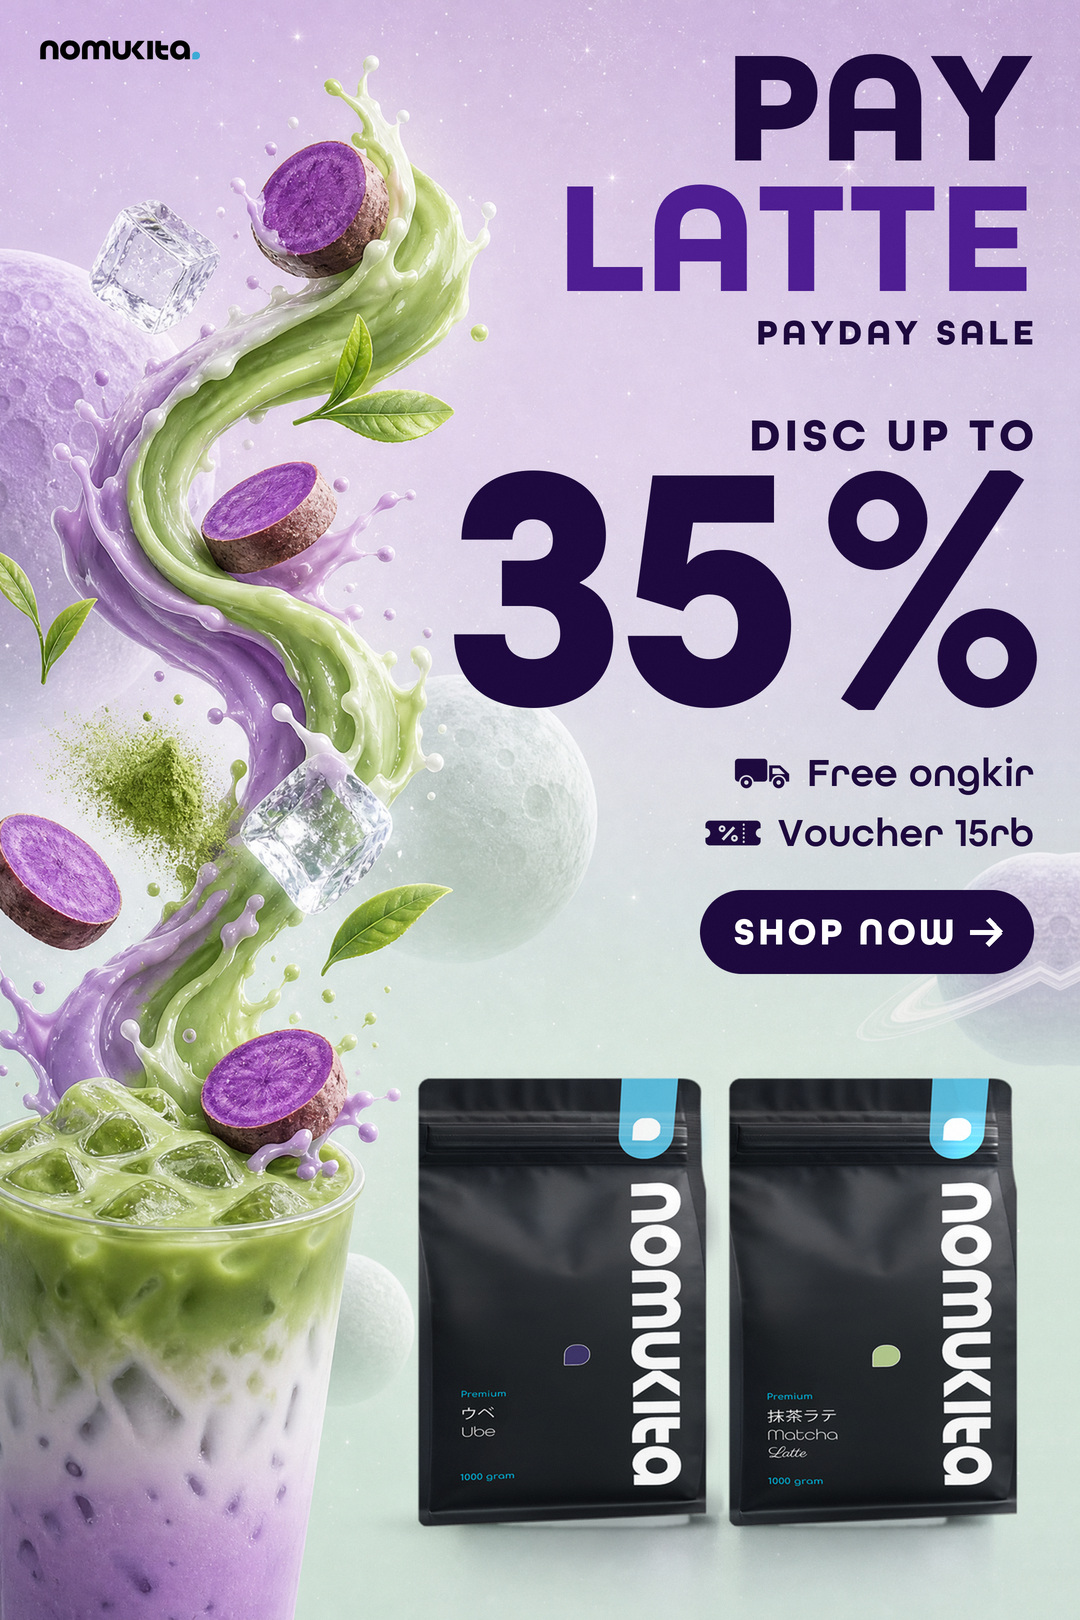
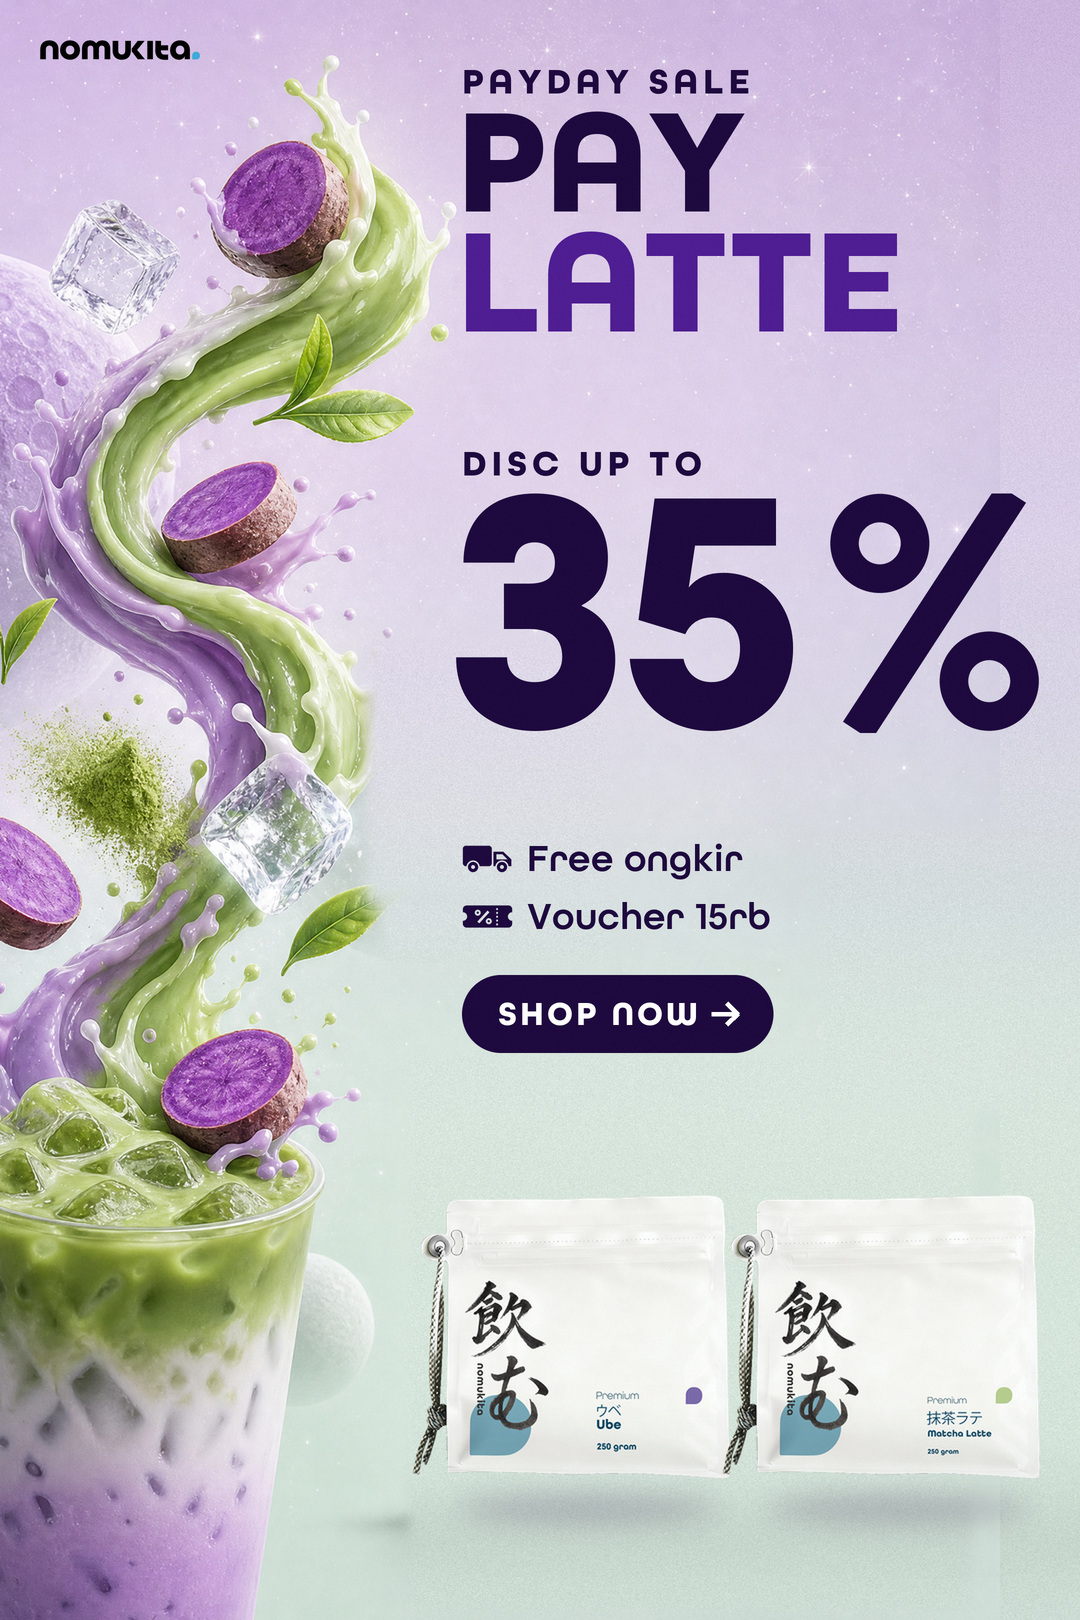
PAY LATTE v4: clean left-aligned typography, real 250 g pouches
Black 1000 g pouches removed from the v3 scene and replaced by the real
front-facing 250 g mockups at one identical size; all type on a single
left axis in three evenly spaced groups with four sizes. v3 archived.

Claude-Session: https://claude.ai/code/session_01Bv3a5UzTxRJwy8L4VxmgVZ

diff --git a/banners/payday-pay-latte/scripts/v4/compose_v4.py b/banners/payday-pay-latte/scripts/v4/compose_v4.py
@@ -1,0 +1,95 @@
+"""PAY LATTE v4: clean typography + real 250 g pouches.
+Type: ONE left-aligned column (x = L.x), three groups separated by equal gaps:
+  [PAYDAY SALE / PAY LATTE]   [DISC UP TO / 35%]   [benefits / SHOP NOW]
+Only four sizes: label 36 (caps, tracked), headline, 35% (digit height 21.94% of width), body 38."""
+import sys, os, json
+import numpy as np, cv2
+from PIL import Image, ImageDraw, ImageFilter
+from ptools import *
+L = json.loads(sys.argv[1]); CW, CH = L["size"]; X = L["x"]
+plate = Image.open(L["bg"]).convert("RGB")
+# ---------- real 250 g pouches ----------
+def pouch(name):
+    p = Image.open(ROOT + f"/assets/nomukita-{name}-250g.png").convert("RGBA"); a = np.asarray(p).astype(np.int16)
+    al = a[..., 3].copy(); al[(al < 250) & (a[..., :3].max(axis=2) < 120)] = 0       # strip the mockup's own shadow
+    a[..., 3] = al; p = Image.fromarray(a.astype(np.uint8), "RGBA"); return p
+BW = L["pouch_w"]; sc = BW / 755.0                                                   # body = x 150..905 of the 1000 px mockup
+sh_layer = np.zeros((CH, CW), np.float32); pouches = []
+for name, bx in zip(("ube", "matcha-latte"), L["pouch_x"]):
+    p = pouch(name); p = p.resize((round(p.width * sc), round(p.height * sc)), Image.LANCZOS)
+    ox = round(bx - 150 * sc); oy = round(L["pouch_base"] - 782 * sc)                 # body bottom = y 782 of the mockup
+    pouches.append((p, ox, oy))
+    # floating shadow: soft ellipse a little below the base + faint ambient under the body
+    cx = bx + BW / 2; by = L["pouch_base"] + L.get("float", 26)
+    m = Image.new("L", (CW, CH), 0); d = ImageDraw.Draw(m)
+    d.ellipse([cx - BW * 0.46, by - 10, cx + BW * 0.46, by + 18], fill=255)
+    sh_layer = np.maximum(sh_layer, cv2.GaussianBlur(np.asarray(m).astype(np.float32) / 255, (0, 0), 14))
+P = np.asarray(plate).astype(np.float32)
+shade = np.array([84, 70, 104], np.float32)
+P = P * (1 - sh_layer[..., None] * L.get("sh_op", 0.30)) + shade * sh_layer[..., None] * L.get("sh_op", 0.30)
+cv = Image.fromarray(np.clip(P, 0, 255).astype(np.uint8)).convert("RGBA")
+for p, ox, oy in pouches:
+    a = np.asarray(p).astype(np.float32)
+    # integrate: a whisper of the sky colour on the white film, darker toward the bottom (ambient occlusion)
+    sky = np.asarray(plate.crop((ox, oy, ox + p.width, oy + p.height)).resize((1, 1), Image.BOX)).reshape(3).astype(np.float32)
+    ys = np.linspace(0, 1, p.height)[:, None, None]
+    a[..., :3] = a[..., :3] * (0.95 + 0.05 * sky / 255) * (1 - 0.06 * np.clip((ys - 0.7) / 0.3, 0, 1))
+    cv.alpha_composite(Image.fromarray(np.clip(a, 0, 255).astype(np.uint8), "RGBA"), (ox, oy))
+cv = cv.resize((CW * K, CH * K), Image.LANCZOS)
+boxes = {}
+def tw(s, fnt, tr=0): return sum(fnt.getlength(c) for c in s) / K + tr * (len(s) - 1)
+def put(key, s, fnt, y, tr=0, fill=INK, x=X):
+    text(cv, x, y, s, fnt, tr, fill); w = tw(s, fnt, tr); boxes[key] = (x, y, x + w, y + cap(fnt)); return y + cap(fnt)
+# logo (top-left, outside the column)
+lg = logo_rgba(ROOT + "/assets/logo01.jpg"); lw = L.get("logo_w", 160) * K
+lg = lg.resize((int(lw), int(lg.height * lw / lg.width)), Image.LANCZOS); cv.alpha_composite(lg, (int(40 * K), int(L.get("logo_y", 40) * K)))
+fl = f(BOLD, L.get("label", 36)); TR = L.get("label_tr", 5)
+# group 1
+y = put("PAYDAY SALE", "PAYDAY SALE", fl, L["y1"], TR)
+fh = f(BOLD, L["head"]); y += L.get("g_in", 24)
+if L.get("stack"):
+    y = put("PAY", "PAY", fh, y - 4, 0, INK, X - 6) + L.get("lead", 22); y = put("LATTE", "LATTE", fh, y, 0, UBE, X - 6)
+else:
+    wp = tw("PAY ", fh); put("PAY", "PAY", fh, y, 0, INK, X - 6); y = put("LATTE", "LATTE", fh, y, 0, UBE, X - 6 + wp)
+g1 = y
+# group 2
+y = put("DISC UP TO", "DISC UP TO", fl, L["y2"], TR) + L.get("g_in", 24) - 6
+pct = pct_vec("35", 0.2194 * CW * 0.983, INK); cv.alpha_composite(pct, (int((X - 6) * K), int(y * K)))
+boxes["35%"] = (X - 6, y, X - 6 + pct.width / K, y + pct.height / K); y += pct.height / K
+# group 3
+fo = f(DEMI, L.get("body", 38)); ih = L.get("icon_h", 34); y3 = L["y3"]
+if L.get("inline"):
+    x = X; items = [("truck", "Free ongkir"), ("ticket", "Voucher 15rb")]
+    for i, (kind, s) in enumerate(items):
+        ic = icon(kind, ih, INK); cv.alpha_composite(ic, (int(x * K), int((y3 + cap(fo) / 2 - ih / 2) * K)))
+        wt = tw(s, fo, 0.3); text(cv, x + ic.width / K + 14, y3, s, fo, 0.3, INK); boxes[f"b{i}"] = (x, y3 - 4, x + ic.width / K + 14 + wt, y3 + cap(fo) + 4)
+        x = x + ic.width / K + 14 + wt + L.get("sep", 36)
+    yb = y3 + cap(fo)
+else:
+    for i, (kind, s) in enumerate([("truck", "Free ongkir"), ("ticket", "Voucher 15rb")]):
+        yy = y3 + i * L.get("lead_b", 56); ic = icon(kind, ih, INK)
+        cv.alpha_composite(ic, (int(X * K), int((yy + cap(fo) / 2 - ih / 2) * K)))
+        wt = tw(s, fo, 0.3); text(cv, X + ic.width / K + 14, yy, s, fo, 0.3, INK); boxes[f"b{i}"] = (X, yy - 4, X + ic.width / K + 14 + wt, yy + cap(fo) + 4)
+    yb = yy + cap(fo)
+fc = f(BOLD, L.get("cta_size", 34)); h = L.get("cta_h", 78); aw = 26; t_w = tw("SHOP NOW", fc, 3); w = t_w + 2 * 36 + aw + 14
+cy0 = yb + L.get("g_cta", 40); cx0 = X
+pl = Image.new("RGBA", (int(w * K * 3), int(h * K * 3)), (0, 0, 0, 0))
+ImageDraw.Draw(pl).rounded_rectangle([0, 0, pl.width - 1, pl.height - 1], radius=pl.height / 2, fill=INK + (255,))
+cv.alpha_composite(pl.resize((int(w * K), int(h * K)), Image.LANCZOS), (int(cx0 * K), int(cy0 * K)))
+tx = cx0 + 36; text(cv, tx, cy0 + (h - cap(fc)) / 2, "SHOP NOW", fc, 3, WHITE)
+d = ImageDraw.Draw(cv); ax = (tx + t_w + 14) * K; ay = (cy0 + h / 2) * K; Lr = aw * K; th = int(4.5 * K)
+d.line([(ax, ay), (ax + Lr, ay)], fill=WHITE, width=th)
+d.line([(ax + Lr * 0.58, ay - Lr * 0.42), (ax + Lr + 1, ay + 1)], fill=WHITE, width=th)
+d.line([(ax + Lr * 0.58, ay + Lr * 0.42), (ax + Lr + 1, ay - 1)], fill=WHITE, width=th)
+boxes["cta"] = (cx0, cy0, cx0 + w, cy0 + h)
+for k, (p, ox, oy) in zip(("pouch_ube", "pouch_matcha"), pouches): boxes[k] = (ox, oy, ox + p.width, oy + p.height)
+print({k: tuple(round(v) for v in b) for k, b in boxes.items()})
+print(f"group ends: g1 {g1:.0f} | g2 {boxes['35%'][3]:.0f} | cta {cy0 + h:.0f} | pouch top {min(b[1] for k, b in boxes.items() if k.startswith('pouch')):.0f}")
+out = cv.convert("RGB").resize((CW, CH), Image.LANCZOS)
+a = np.asarray(out).astype(np.float32) + np.random.default_rng(11).normal(0, 0.8, (CH, CW, 1))
+out = Image.fromarray(np.clip(a, 0, 255).astype(np.uint8))
+for q in (94, 92, 90):
+    out.save(L["out"], quality=q, optimize=True, progressive=True, subsampling=0)
+    if os.path.getsize(L["out"]) <= 2_000_000: break
+json.dump({k: [float(v) for v in b] for k, b in boxes.items()}, open(L["out"] + ".boxes.json", "w"))
+print("saved", L["out"], out.size, os.path.getsize(L["out"]), "bytes")

diff --git a/banners/payday-pay-latte/scripts/v4/ptools.py b/banners/payday-pay-latte/scripts/v4/ptools.py
@@ -1,0 +1,64 @@
+"""Shared drawing helpers: tracked text, vector percent block, flat vector icons."""
+import sys, os, json, math
+import numpy as np
+from PIL import Image, ImageDraw, ImageFont
+ROOT = "/tmp/claude-0/-home-user-Dom-Manipulation/cc5b59a6-6b87-5897-882c-ef3d3b14e312/scratchpad"
+sys.path.insert(0, "/home/user/Dom-Manipulation/banners/10.10-ube")
+from compose import logo_rgba
+FD = ROOT + "/assets/fonts/All Round Gothic/"
+BOLD, DEMI = FD + "Fontspring-DEMO-allroundgothic-bold.otf", FD + "Fontspring-DEMO-allroundgothic-demi.otf"
+K = 2
+INK = (30, 10, 62); UBE = (78, 30, 146); WHITE = (255, 255, 255)
+
+def f(path, size): return ImageFont.truetype(path, int(round(size * K)))
+def cap(fnt): b = fnt.getbbox("H"); return (b[3] - b[1]) / K
+def text(cv, x, y, s, fnt, tr=0, fill=INK):
+    d = ImageDraw.Draw(cv); X = x * K; top = fnt.getbbox("H")[1]
+    for c in s:
+        d.text((X, y * K - top), c, font=fnt, fill=fill); X += fnt.getlength(c) + tr * K
+    return (X - tr * K) / K - x
+
+def pct_vec(digits, digit_h, color):
+    """Digits from the Bold font + a vector % (locked in the DEMO font), figure height = digit_h px."""
+    fb = ImageFont.truetype(BOLD, 400); b5 = fb.getbbox("5"); size = 400 * digit_h * K / (b5[3] - b5[1])
+    fb = ImageFont.truetype(BOLD, int(round(size))); bb = [fb.getbbox(c) for c in digits]
+    top = min(b[1] for b in bb); H = max(b[3] for b in bb) - top
+    t = 0.135 * size; r = 0.142 * size; ring = 0.082 * size; wp = 0.60 * size; gap = 0.075 * size
+    wd = sum(fb.getlength(c) for c in digits) - 0.02 * size * (len(digits) - 1)
+    Wt = int(wd + gap + wp + 8); ss = 3
+    lay = Image.new("RGBA", (Wt, int(H + 8)), (0, 0, 0, 0)); d = ImageDraw.Draw(lay); x = 0
+    for c in digits:
+        d.text((x, -top), c, font=fb, fill=color + (255,)); x += fb.getlength(c) - 0.02 * size
+    m = Image.new("L", (int((wp + 4) * ss), int((H + 4) * ss)), 0); md = ImageDraw.Draw(m)
+    Rr = r * ss; RI = (r - ring) * ss; c1 = (Rr + 2, Rr + 2); c2 = (wp * ss - Rr - 2, H * ss - Rr - 2)
+    for c0 in (c1, c2):
+        md.ellipse([c0[0] - Rr, c0[1] - Rr, c0[0] + Rr, c0[1] + Rr], fill=255); md.ellipse([c0[0] - RI, c0[1] - RI, c0[0] + RI, c0[1] + RI], fill=0)
+    q1 = (wp * ss - r * 0.55 * ss, 0); q2 = (r * 0.55 * ss, H * ss); dx, dy = q2[0] - q1[0], q2[1] - q1[1]; Ln = math.hypot(dx, dy)
+    nx, ny = -dy / Ln, dx / Ln; th = t * 0.72 / 2 * ss
+    md.polygon([(q1[0] + nx * th, q1[1] + ny * th), (q1[0] - nx * th, q1[1] - ny * th), (q2[0] - nx * th, q2[1] - ny * th), (q2[0] + nx * th, q2[1] + ny * th)], fill=255)
+    m = m.resize((int(wp + 4), int(H + 4)), Image.LANCZOS)
+    col = Image.new("RGBA", m.size, color + (255,)); col.putalpha(m); lay.alpha_composite(col, (int(wd + gap), 0))
+    return lay.crop(lay.getbbox())
+
+def icon(kind, h, color):
+    """Flat vector icons drawn on a 120x80 grid: delivery truck / voucher ticket."""
+    ss = 8; W0, H0 = 120, 80
+    m = Image.new("L", (W0 * ss, H0 * ss), 0); d = ImageDraw.Draw(m)
+    def R(box, rad, fill=255): d.rounded_rectangle([v * ss for v in box], radius=rad * ss, fill=fill)
+    def C(cx, cy, r, fill=255): d.ellipse([(cx - r) * ss, (cy - r) * ss, (cx + r) * ss, (cy + r) * ss], fill=fill)
+    if kind == "truck":
+        R((2, 10, 70, 58), 7)                                           # cargo box
+        d.polygon([(v[0] * ss, v[1] * ss) for v in [(74, 24), (97, 24), (116, 42), (116, 58), (74, 58)]], fill=255)   # cab
+        R((74, 24, 100, 58), 5); R((96, 40, 116, 58), 5)
+        d.polygon([(v[0] * ss, v[1] * ss) for v in [(81, 30), (95, 30), (107, 42), (81, 42)]], fill=0)                # window
+        for cx in (26, 94):
+            C(cx, 60, 15.5, 0); C(cx, 60, 12); C(cx, 60, 4.6, 0)        # wheels with a gap ring
+    else:
+        R((2, 14, 118, 66), 9)                                          # ticket body
+        C(2, 40, 10, 0); C(118, 40, 10, 0)                              # side notches
+        for y in range(20, 64, 9): R((80.5, y, 84.5, y + 5), 2, 0)      # perforation
+        d.polygon([(v[0] * ss, v[1] * ss) for v in [(36, 52), (60, 26), (64.5, 30), (40.5, 56)]], fill=0)             # small % mark
+        C(37, 31, 7, 0); C(37, 31, 2.6); C(63, 51, 7, 0); C(63, 51, 2.6)
+    w = round(h * K * W0 / H0); m = m.resize((w, int(h * K)), Image.LANCZOS)
+    lay = Image.new("RGBA", m.size, color + (255,)); lay.putalpha(m); return lay
+

diff --git a/banners/payday-pay-latte/scripts/v4/plate.py b/banners/payday-pay-latte/scripts/v4/plate.py
@@ -1,0 +1,54 @@
+"""Clean plate: the AI scene with the black 1000 g pouches (and their contact shadow) removed.
+Usage: plate.py src out size shift_x shift_y"""
+import sys, numpy as np, cv2
+from PIL import Image
+src, out, S, sx, sy = sys.argv[1], sys.argv[2], tuple(map(int, sys.argv[3].split('x'))), int(sys.argv[4]), int(sys.argv[5])
+ERASE = [tuple(map(int, r.split(','))) for r in sys.argv[6:]]   # extra rectangles (x0,y0,x1,y1, pre-shift coords) filled with sky
+im = Image.open(src).convert('RGB').resize((S[0], round(S[0] * Image.open(src).height / Image.open(src).width)), Image.LANCZOS)
+A = np.asarray(im).astype(np.float32); H, W, _ = A.shape
+lum = A.mean(axis=2)
+dark = ((lum < 75) & (np.arange(H)[:, None] > H * 0.45)).astype(np.uint8)
+n, lab, st, _ = cv2.connectedComponentsWithStats(cv2.morphologyEx(dark, cv2.MORPH_CLOSE, np.ones((7, 7), np.uint8)))
+blobs = sorted(range(1, n), key=lambda i: -st[i, cv2.CC_STAT_AREA])[:2]
+xs0 = min(st[i, 0] for i in blobs) - 16; xs1 = max(st[i, 0] + st[i, 2] for i in blobs) + 16
+ys0 = min(st[i, 1] for i in blobs) - 24; ys1 = min(H, max(st[i, 1] + st[i, 3] for i in blobs) + int(0.2 * max(st[i, 3] for i in blobs)))
+xs1 = min(xs1, W)
+print("box", xs0, ys0, xs1, ys1)
+# smooth sky model inside the box: per row, linear blend between the median colour just left and just right of it
+Lc = np.median(A[:, max(0, xs0 - 40):xs0 - 6], axis=1); Rc = np.median(A[:, xs1 + 6:min(W, xs1 + 40)], axis=1) if xs1 + 46 < W else Lc
+Lc = cv2.GaussianBlur(Lc[None], (0, 0), sigmaX=0.1, sigmaY=25)[0] if False else cv2.GaussianBlur(Lc[:, None], (0, 0), sigmaX=0.1, sigmaY=25)[:, 0]
+Rc = cv2.GaussianBlur(Rc[:, None], (0, 0), sigmaX=0.1, sigmaY=25)[:, 0]
+t = np.clip((np.arange(W) - xs0) / max(1, xs1 - xs0), 0, 1)[None, :, None]
+model = Lc[:, None, :] * (1 - t) + Rc[:, None, :] * t
+grain = A - cv2.GaussianBlur(A, (0, 0), 2); gstd = float(grain[:200].std())
+fill = model + np.random.default_rng(7).normal(0, gstd * 0.9, A.shape[:2])[..., None]
+m = np.zeros((H, W), np.float32); m[ys0:ys1, xs0:xs1] = 1
+mm = cv2.GaussianBlur(m, (0, 0), 6)[..., None]
+P = A * (1 - mm) + fill * mm
+def sky_rect(P, x0, y0, x1, y1, c0=None, c1=None):
+    x0, x1 = max(0, x0), min(W, x1)
+    if c0 is not None:                      # colour per row taken from a clean column band c0..c1
+        col = cv2.GaussianBlur(np.median(P[:, c0:c1], axis=1)[:, None], (0, 0), sigmaX=0.1, sigmaY=25)[:, 0]
+        model = np.repeat(col[:, None, :], W, axis=1) + np.random.default_rng(x0 + y0).normal(0, gstd * 0.9, (H, W, 1))
+        m = np.zeros((H, W), np.float32); m[y0:y1, x0:x1] = 1; mm = cv2.GaussianBlur(m, (0, 0), 10)[..., None]
+        return P * (1 - mm) + model * mm
+    Lc = np.median(P[:, max(0, x0 - 40):max(1, x0 - 6)], axis=1) if x0 > 10 else None
+    Rc = np.median(P[:, x1 + 6:x1 + 40], axis=1) if x1 + 46 < W else None
+    if Rc is not None: Lc = Rc          # the sky to the right is clean; the left side may hold the ribbon
+    if Rc is None: Rc = Lc
+    Lc = cv2.GaussianBlur(Lc[:, None], (0, 0), sigmaX=0.1, sigmaY=25)[:, 0]; Rc = cv2.GaussianBlur(Rc[:, None], (0, 0), sigmaX=0.1, sigmaY=25)[:, 0]
+    t = np.clip((np.arange(W) - x0) / max(1, x1 - x0), 0, 1)[None, :, None]
+    model = Lc[:, None, :] * (1 - t) + Rc[:, None, :] * t + np.random.default_rng(x0 + y0).normal(0, gstd * 0.9, (H, W, 1))
+    m = np.zeros((H, W), np.float32); m[y0:y1, x0:x1] = 1; mm = cv2.GaussianBlur(m, (0, 0), 8)[..., None]
+    return P * (1 - mm) + model * mm
+for r in ERASE: P = sky_rect(P, *r)
+P = np.clip(P, 0, 255).astype(np.uint8)
+# shift (mirror-fill the uncovered edge)
+if sx > 0:
+    edge = np.median(P[:, W - sx - 30:W - sx].astype(np.float32), axis=1)
+    edge = cv2.GaussianBlur(edge[:, None], (0, 0), sigmaX=0.1, sigmaY=20)[:, 0]
+    strip = np.repeat(edge[:, None, :], sx, axis=1) + np.random.default_rng(3).normal(0, gstd * 0.9, (H, sx, 1))
+    P = np.concatenate([P[:, sx:], np.clip(strip, 0, 255).astype(np.uint8)], axis=1)
+if sy > 0: P = np.concatenate([P[:sy][::-1], P[:-sy]], axis=0)
+P = P[:S[1], :S[0]]
+Image.fromarray(P).save(out); print(out, P.shape, "grain std", round(gstd, 2))

diff --git a/banners/payday-pay-latte/scripts/v4/verify3.py b/banners/payday-pay-latte/scripts/v4/verify3.py
@@ -1,0 +1,21 @@
+import sys, json, numpy as np, os, cv2
+from PIL import Image
+out, bgp = sys.argv[1], sys.argv[2]
+im = Image.open(out); a = np.asarray(im.convert('RGB')).astype(float); bx = json.load(open(out + '.boxes.json'))
+x0, y0, x1, y1 = [int(v) for v in bx['35%']]
+ink = (a[..., 0] < 80) & (a[..., 2] < 130) & (a[..., 1] < 60)
+r = np.where(ink[y0 - 4:y1 + 4, x0:x0 + 330].sum(axis=1) > 8)[0]
+print(os.path.basename(out), im.size, os.path.getsize(out), "bytes | digit height", r.max() - r.min() + 1, "px =", round(100 * (r.max() - r.min() + 1) / im.width, 2), "% of width")
+bg = np.asarray(Image.open(bgp).convert('RGB')).astype(np.float32)
+def rl(c):
+    c = c / 255; c = np.where(c <= 0.03928, c / 12.92, ((c + 0.055) / 1.055) ** 2.4); return 0.2126 * c[..., 0] + 0.7152 * c[..., 1] + 0.0722 * c[..., 2]
+Lm = rl(bg); ink_l = rl(np.array([[30, 10, 62]], float))[0]; ube_l = rl(np.array([[78, 30, 146]], float))[0]
+cr = lambda p, q: (max(p, q) + 0.05) / (min(p, q) + 0.05)
+obj = (np.abs(bg - cv2.GaussianBlur(bg, (0, 0), 60)).max(axis=2) > 18).astype(np.uint8)
+obj = cv2.morphologyEx(obj, cv2.MORPH_OPEN, np.ones((5, 5), np.uint8)).astype(bool)
+for k, b in bx.items():
+    if k == 'logo' or k.startswith('pouch'): continue
+    X0, Y0, X1, Y1 = [int(round(v)) for v in b]; reg = Lm[Y0:Y1, X0:X1]; lo, hi = np.percentile(reg, 5), np.percentile(reg, 95)
+    c = min(cr(ink_l, lo), cr(ink_l, hi)); extra = f" | purple {min(cr(ube_l, lo), cr(ube_l, hi)):.1f}:1" if 'LATTE' in k else ""
+    under = obj[Y0:Y1, X0:X1].mean(); pad = 20; near = obj[max(0, Y0 - pad):Y1 + pad, max(0, X0 - pad):X1 + pad].mean()
+    print(f"  {k:10s} contrast {c:.1f}:1{extra} | photo under text {100 * under:.1f}% | within 20 px {100 * near:.1f}%")

diff --git a/banners/payday-pay-latte/README.md b/banners/payday-pay-latte/README.md
@@ -1,10 +1,35 @@
-# PAY LATTE, banner payday (Ube & Matcha Latte 1000 g, Ube Matcha Latte)
+# PAY LATTE, banner payday (Ube & Matcha Latte 250 g, Ube Matcha Latte)
 
-File (versi 3, aktif)
-- `pay-latte-payday-1080x1620.jpg` (2:3, 0,56 MB)
+File (versi 4, aktif)
+- `pay-latte-payday-1080x1620.jpg` (2:3, 0,57 MB)
 - `pay-latte-payday-1080x1080.jpg` (1:1, 0,38 MB)
-- Versi sebelumnya: `archive-v2/` (tas jaring, pouch depan), `archive-v1/` (tas jaring, pouch miring).
+- Versi sebelumnya: `archive-v3/` (gaya luar angkasa, pouch 1000 g), `archive-v2/`, `archive-v1/`.
 
+Versi 4: tipografi lebih clean + pouch 250 g
+- Pouch: foto mockup ASLI 250 g (nomukita-ube-250g.png, nomukita-matcha latte japanese.png), sudah tampak depan,
+  ditempel apa adanya tanpa digambar ulang AI. Ukuran keduanya sama (2:3: 376 x 314 px; 1:1: 331 x 276 px,
+  termasuk tali). Bayangan bawaan mockup dibuang, diganti bayangan melayang lembut seperti referensi.
+- Pouch hitam 1000 g dikeluarkan dari foto v3 (`scripts/v4/plate.py`): kotaknya diisi gradasi langit
+  dari sisi yang bersih, bukan AI. Planet di belakang kolom teks juga dihapus agar teks berdiri di latar polos.
+  Foto digeser ke kiri (2:3: 80 px, 1:1: 100 px) supaya pita cipratan tidak menyentuh judul.
+- Tipografi:
+  - SATU garis rata kiri untuk semua teks (2:3: x 462; 1:1: x 456). Versi 3 rata kanan sehingga tepi kiri
+    tiap baris bergerigi.
+  - Tiga kelompok dengan jarak yang sama: [PAYDAY SALE / PAY LATTE] - [DISC UP TO / 35%] - [Free ongkir,
+    Voucher 15rb / SHOP NOW]. Pouch di bawahnya.
+  - Hanya empat ukuran: label kapital 36 (PAYDAY SALE, DISC UP TO, sama persis), judul, angka 35%, body 38.
+  - 2:3 judul dua baris (PAY / LATTE), 1:1 satu baris.
+- Copy sama: PAYDAY SALE, PAY LATTE, DISC UP TO 35%, Free ongkir, Voucher 15rb, SHOP NOW.
+
+Pengukuran v4 (`scripts/v4/verify3.py`)
+- Tinggi angka 35 = 237 px (21,94% lebar) di kedua ukuran.
+- Kontras terburuk 10,2:1 sampai 13,5:1; LATTE ungu 6,6-6,7:1.
+- Tidak ada pita, planet, atau objek di bawah teks (yang terdeteksi di dekat LATTE hanya bintik bintang).
+
+Kredit kie.ai v4: 0 (memakai foto v3).
+
+---
+Catatan versi 3
 Versi 3: gaya "Referensi Payday_Nomu.jpeg"
 - Langit luar angkasa pastel dengan planet lembut, pita cairan yang melilit keluar dari produk, bahan melayang.
   Warna diganti ke palet Nomukita: lilac di atas, mint pucat di bawah.
